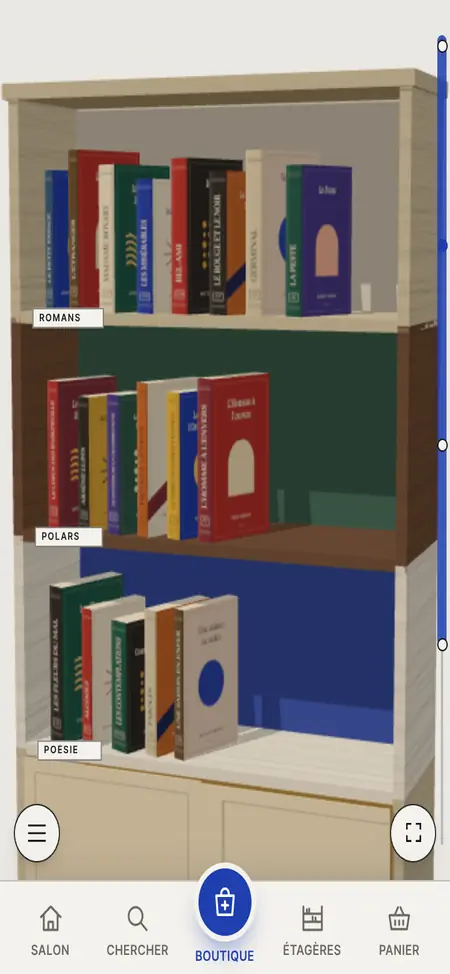
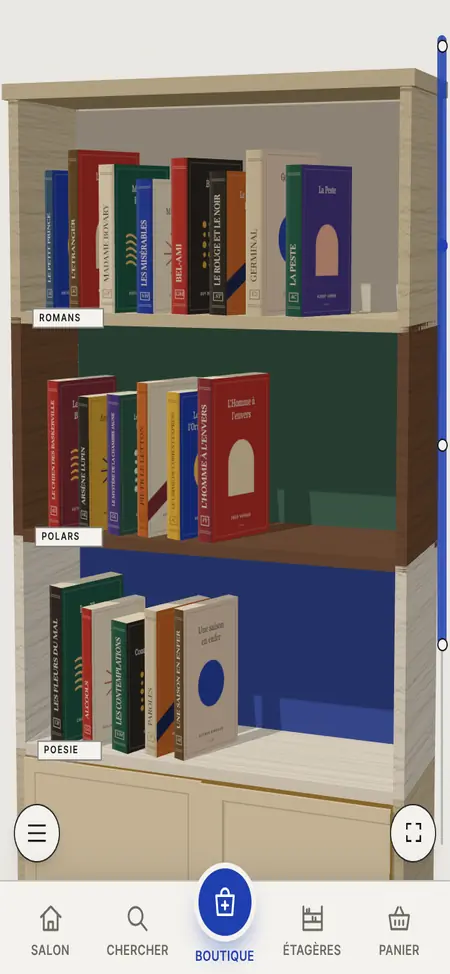
Glisser-déposer précis, livres plus nets, salon immobile pendant la caméra
Claude-Session: https://claude.ai/code/session_01Tg9JuQWn64WBjX1JtYF8aa

diff --git a/src/three/LivingRoomScene.js b/src/three/LivingRoomScene.js
@@ -25,8 +25,8 @@ const EL_MIN = 0.3, EL_MAX = 0.78, EL0 = 0.5
 const TARGET0 = new THREE.Vector3(0, 0.95, 0)
 
 // emplacements (repère de la pièce)
-const BOOKCASE = { x: -R + 0.2, z: -0.55, w: 1.62, h: 2.18, d: 0.38 }
-const FIRE = { x: -0.5, w: 1.3, d: 0.3 }
+const BOOKCASE = { x: -1.05, z: -R + 0.2, w: 1.62, h: 2.18, d: 0.38 }   // mur du fond, à gauche (face à la caméra)
+const FIRE = { z: -0.5, w: 1.3, d: 0.3 }                               // mur de gauche
 const TV = { x: 1.22 }
 const SOFA = { x: 1.34, z: 0.5 }
 const TABLE = { x: -0.02, z: 0.48 }
@@ -449,8 +449,7 @@ export class LivingRoomScene {
   // ---- Bibliothèque ----------------------------------------------------------------------
   _buildBookcase() {
     const grp = new THREE.Group()
-    grp.position.set(BOOKCASE.x, 0, BOOKCASE.z)
-    grp.rotation.y = Math.PI / 2      // face à la pièce (+x)
+    grp.position.set(BOOKCASE.x, 0, BOOKCASE.z)   // face à la pièce (+z)
     this.room.add(grp)
     this.bookcase = grp
     this.bookcaseInner = new THREE.Group()
@@ -593,7 +592,8 @@ export class LivingRoomScene {
   // ---- Cheminée ---------------------------------------------------------------------------
   _buildFireplace() {
     const grp = new THREE.Group()
-    grp.position.set(FIRE.x, 0, -R)
+    grp.position.set(-R, 0, FIRE.z)
+    grp.rotation.y = Math.PI / 2       // contre le mur de gauche, face à la pièce (+x)
     this.room.add(grp)
     const W = FIRE.w, D = FIRE.d
     const aw = 0.74, ah = 0.5, ay = 0.1, ar = aw / 2
@@ -650,7 +650,7 @@ export class LivingRoomScene {
     })
     // lueur du feu
     this.fireLight = new THREE.PointLight(0xff8a3c, 2, 5.5, 1.6)
-    this.fireLight.position.set(FIRE.x, 0.55, -R + D + 0.45)
+    this.fireLight.position.set(-R + D + 0.45, 0.55, FIRE.z)
     this.scene.add(this.fireLight)
     // déco de la tablette : miroir rond, bougies, petit vase
     const mirror = new THREE.Mesh(this._geo(new THREE.CircleGeometry(0.3, 48)), this._mat('#C9D3D8', { roughness: 0.15, metalness: 0.3 }))
@@ -1263,10 +1263,10 @@ export class LivingRoomScene {
     const { CW } = lib.layout
     const totalH = lib.rowCount * (RH + PT) + PT
     const sc = Math.min(2.45 / (totalH + 0.1), 2.1 / (CW + 2 * ST + 0.06))
-    const hw = (CW / 2 + ST + 0.04) * sc
+    const hw = (CW / 2 + ST + 0.04) * sc     // demi-largeur (sur x)
     const g = new THREE.Group()
-    g.position.set(-R + 0.012 + (SD / 2 + 0.02) * sc, 0, clamp(-0.6, -1.92 + hw, 0.32 - hw))
-    g.rotation.y = Math.PI / 2
+    // contre le mur du fond, entre le coin gauche et le meuble télé
+    g.position.set(clamp(-0.8, -1.92 + hw, 0.45 - hw), 0, -R + 0.012 + (SD / 2 + 0.02) * sc)
     g.scale.setScalar(sc)
     g.add(copy)
     this.room.add(g)
@@ -1453,10 +1453,6 @@ export class LivingRoomScene {
     // on part de la vue exacte où l'on était dans la bibliothèque…
     this.fly = { dir: 'out', start: { az: AZ0, el: EL0, dist: this.dist, target: TARGET0.clone() }, t: 0, dur: 1.6, libPose: this._libraryPose() }
     this._stepFly(0)
-    // …puis la bibliothèque remonte en haut : dans le salon, les étagères du haut s'ouvrent,
-    // celles du bas se ferment (c'est par le haut qu'on entrera la prochaine fois)
-    lib.setZoom(true)
-    lib.scrollToTop()
   }
 
   /** La bibliothèque se présente toujours par le haut, vue de près. */
@@ -1487,9 +1483,6 @@ export class LivingRoomScene {
     const a = this._salonPose(f.start.az, f.start.el, f.start.dist, f.start.target)
     const b = f.libPose || this._libraryPose()
     this._applyPose(a, b, ease(p))
-    this._setFade(sstep(0.06, 0.55, p))
-    this.mix = sstep(0.2, 0.8, p)
-    this._setClip(sstep(0.62, 1, p), b.R, b.S)
     this.shadowDirty = Math.max(this.shadowDirty, 1)
     if (k >= 1) {
       if (f.dir === 'in') { if (!f.called) { f.called = true; f.onDone?.() } return }
@@ -1497,15 +1490,18 @@ export class LivingRoomScene {
       this.fly = null
       this.az.snap(AZ0); this.el.snap(EL0); this.target.copy(TARGET0)
       this.camera.updateProjectionMatrix()
-      this._setFade(0); this.mix = 0; this._setClip(0)
       this.idleAt = this.time
+      // la caméra est arrêtée : la bibliothèque remonte en haut (les étagères du haut s'ouvrent,
+      // celles du bas se ferment : c'est par le haut qu'on entrera la prochaine fois)
+      const lib = this.mirror?.lib
+      if (lib && !lib.disposed) { lib.setZoom(true); lib.scrollToTop() }
     }
   }
 
   /** Vue rapprochée (secours, quand la bibliothèque n'est pas encore là). */
   _bookcaseView() {
-    const center = new THREE.Vector3(BOOKCASE.x + BOOKCASE.d / 2, 1.12, BOOKCASE.z)
-    return { target: center, az: Math.PI / 2, el: 0.05, dist: 2.3 }
+    const center = new THREE.Vector3(BOOKCASE.x, 1.12, BOOKCASE.z + BOOKCASE.d / 2)
+    return { target: center, az: 0.2, el: 0.05, dist: 2.3 }
   }
 
   _applyFly(k) {

diff --git a/src/three/BookcaseScene.js b/src/three/BookcaseScene.js
@@ -71,12 +71,14 @@ export class BookcaseScene {
     this.cb = cb
     this.container = container
     this.renderer = new THREE.WebGLRenderer({ antialias: true, alpha: true, powerPreference: 'high-performance' })
-    this.renderer.setPixelRatio(Math.min(window.devicePixelRatio || 1, 2))
+    // écrans 3× (iPhone) : dessin en 3× ; la qualité ne baisse que si le téléphone peine vraiment
+    this.dpr = Math.min(window.devicePixelRatio || 1, 3)
+    this.renderer.setPixelRatio(this.dpr)
     this.renderer.outputColorSpace = THREE.SRGBColorSpace
     this.renderer.shadowMap.enabled = true
     this.renderer.shadowMap.type = THREE.PCFSoftShadowMap
     this.renderer.localClippingEnabled = true
-    setAnisotropy(Math.min(8, this.renderer.capabilities.getMaxAnisotropy()))
+    setAnisotropy(Math.min(16, this.renderer.capabilities.getMaxAnisotropy()))   // livres vus de biais : nets
     container.appendChild(this.renderer.domElement)
     noTouchSelect(this.renderer.domElement)
     this.renderer.domElement.className = 'shelf-canvas'
@@ -1105,26 +1107,31 @@ export class BookcaseScene {
    * on réduit d'abord la résolution, puis on simplifie les ombres.
    */
   _adapt(dt) {
-    if (dt <= 0 || dt > 0.25) return
-    this.perf = this.perf || { sum: 0, n: 0, level: 0 }
+    if (dt <= 0 || dt > 0.25) return false
+    this.perf = this.perf || { sum: 0, n: 0, level: 0, seen: 0 }
     const pf = this.perf
+    // on laisse passer l'arrivée (les livres qui se posent) avant de juger
+    if (++pf.seen < 90) return false
     pf.sum += dt; pf.n++
-    if (pf.n < 24) return
+    if (pf.n < 40) return false
     const avg = pf.sum / pf.n
     pf.sum = 0; pf.n = 0
-    if (avg > 0.034 && pf.level === 0) {
+    if (avg <= 0.045) return false
+    if (pf.level === 0) {
+      // d'abord des ombres plus simples (le flou se voit plus que les ombres)
       pf.level = 1
-      this.renderer.setPixelRatio(1)
-      this.renderer.setSize(this.w, this.h, false)
-      return true      // le canevas vient d'être vidé : il faut le redessiner
-    } else if (avg > 0.034 && pf.level === 1) {
-      pf.level = 2
       this.renderer.shadowMap.type = THREE.PCFShadowMap
       this.key.shadow.mapSize.set(1024, 1024)
       this.key.shadow.map?.dispose(); this.key.shadow.map = null
       return true
     }
-    return false
+    // puis la définition, par paliers, sans descendre sous 1,5×
+    const next = this.dpr > 2 ? 2 : this.dpr > 1.5 ? 1.5 : null
+    if (!next) return false
+    this.dpr = next
+    this.renderer.setPixelRatio(next)
+    this.renderer.setSize(this.w, this.h, false)
+    return true      // le canevas vient d'être vidé : il faut le redessiner
   }
 
   /** Étiquettes des planches : positionnées directement (sans repasser par React). */

diff --git a/src/App.jsx b/src/App.jsx
@@ -192,6 +192,19 @@ function Library({ user, onSignOut }) {
   // panier vidé : on referme la rangée
   useEffect(() => { if (!basket.items.length) setGuide(false) }, [basket.items.length])
 
+  // Retour au salon : la bibliothèque remonte d'abord en haut (dans la bibliothèque), puis la
+  // caméra sort par là — rien ne passe devant pendant le trajet
+  const goSalon = useCallback(() => {
+    const sc = bookcaseApi.current?.scene?.()
+    if (!sc?.scroll) { setSalon('back'); return }
+    const atTop = () => Math.abs(sc.scroll.v - sc._clampScroll(Infinity)) < 0.01 && sc.zoom.v > 0.99 && sc.scroll.done && sc.zoom.done
+    if (atTop()) { setSalon('back'); return }
+    sc.setZoom(true); sc.scrollToTop()
+    const t0 = performance.now()
+    const wait = () => (atTop() || performance.now() - t0 > 1400 ? setTimeout(() => setSalon('back'), 120) : requestAnimationFrame(wait))
+    requestAnimationFrame(wait)
+  }, [])
+
   const openGuide = useCallback(() => {
     if (salon) { markSalonSeen(); setSalon(null) }
     setGuide(true)
@@ -233,7 +246,7 @@ function Library({ user, onSignOut }) {
         <Logo />
         <div className="top-right">
           {HAS_WEBGL && (
-            <button type="button" className="lbl box salon-btn" onClick={e => { e.currentTarget.blur(); setSalon('back') }} aria-label="Retour au salon">
+            <button type="button" className="lbl box salon-btn" onClick={e => { e.currentTarget.blur(); goSalon() }} aria-label="Retour au salon">
               <svg width="13" height="12" viewBox="0 0 13 12" aria-hidden="true"><path d="M1 6L6.5 1.2 12 6M2.6 4.8V11h7.8V4.8" stroke="currentColor" fill="none" strokeWidth="1.1" /></svg>
               <span className="salon-btn-l">Salon</span>
             </button>
@@ -301,7 +314,7 @@ function Library({ user, onSignOut }) {
           {findOpen && <div className="find-backdrop" onPointerDown={() => setFindOpen(false)} />}
           <nav className="tabbar" aria-label="Menu">
             {HAS_WEBGL && (
-              <button type="button" className="tab" onClick={() => { setFindOpen(false); setGuide(false); setSalon('back') }}>
+              <button type="button" className="tab" onClick={() => { setFindOpen(false); setGuide(false); goSalon() }}>
                 <svg viewBox="0 0 24 24" aria-hidden="true"><path d="M3.5 11.2L12 4l8.5 7.2M6 9.8V20h12V9.8M10 20v-5.5h4V20" /></svg>
                 <span>Salon</span>
               </button>

diff --git a/src/three/textures.js b/src/three/textures.js
@@ -11,11 +11,13 @@ const cache = new Map()
 let anisotropy = 4
 export function setAnisotropy(n) { anisotropy = n }
 
-function canvasTexture(key, w, h, draw, { repeat = false } = {}) {
+function canvasTexture(key, w, h, draw, { repeat = false, scale = 1 } = {}) {
   if (cache.has(key)) return cache.get(key)
   const c = document.createElement('canvas')
-  c.width = w; c.height = h
-  draw(c.getContext('2d'), w, h)
+  c.width = Math.round(w * scale); c.height = Math.round(h * scale)
+  const ctx = c.getContext('2d')
+  ctx.scale(scale, scale)     // même dessin, plus de pixels (texte des tranches plus net)
+  draw(ctx, w, h)
   const tex = new THREE.CanvasTexture(c)
   tex.colorSpace = THREE.SRGBColorSpace
   tex.anisotropy = anisotropy
@@ -67,7 +69,7 @@ export function spineTexture(book) {
     ctx.strokeRect(w / 2 - 34, h - 160, 68, 56)
     ctx.fillStyle = ink; ctx.font = `italic 500 36px ${SERIF}`; ctx.textAlign = 'center'; ctx.textBaseline = 'middle'
     ctx.fillText(authorInitials(book), w / 2, h - 131)
-  })
+  }, { scale: 1.5 })   // 1,5 × plus de pixels : titre de la tranche net
 }
 
 /** Couverture générée quand l'image réelle n'est pas disponible. */

diff --git a/src/components/LivingRoom.jsx b/src/components/LivingRoom.jsx
@@ -52,7 +52,7 @@ export default function LivingRoom({ books, shelves, basketItems, from, onEntere
       const done = () => cb.current.onEntered?.(typeof next === 'string' ? next : null)
       if (!el?.animate) { done(); return }
       // les deux vues sont identiques : on retire simplement le salon (les menus apparaissent)
-      el.animate([{ opacity: 1 }, { opacity: 0 }], { duration: 220, easing: 'ease-out', fill: 'forwards' }).finished.then(done, done)
+      el.animate([{ opacity: 1 }, { opacity: 0 }], { duration: 380, easing: 'ease-in-out', fill: 'forwards' }).finished.then(done, done)
     })
   }
   cb.current.go = go
@@ -88,7 +88,7 @@ export default function LivingRoom({ books, shelves, basketItems, from, onEntere
     let t
     if (from === 'back') {
       s.arriveFromLibrary()
-      rootRef.current?.animate?.([{ opacity: 0 }, { opacity: 1 }], { duration: 160, easing: 'ease-out' })
+      rootRef.current?.animate?.([{ opacity: 0 }, { opacity: 1 }], { duration: 300, easing: 'ease-in-out' })
       t = setTimeout(() => setGoing(false), 1100)
     }
     return () => { clearTimeout(t); s.dispose(); sceneRef.current = null }

diff --git a/src/lib/covers.js b/src/lib/covers.js
@@ -8,6 +8,16 @@ const rawCover = b => (b?.cover_url || b?.cover || '').replace('http://', 'https
 
 export const relayUrl = src => `/api/cover?url=${encodeURIComponent(src)}`
 
+/**
+ * Version grand format d'une couverture Google Books (les vignettes « zoom=1 » ne font que
+ * ~128 px de large : floues en 3D). Si Google l'ignore, on retombe sur la vignette.
+ */
+export function hiResCover(src) {
+  if (!src || !/books\.google(usercontent)?\.com/.test(src) || /[?&]fife=/.test(src)) return null
+  if (!/\/books\/content|\/books\/publisher/.test(src)) return null
+  return src + (src.includes('?') ? '&' : '?') + 'fife=w600-h900'
+}
+
 export function coverKey(b) {
   const raw = rawCover(b)
   if (raw) return raw
@@ -17,6 +27,8 @@ export function coverKey(b) {
 export function coverCandidates(b) {
   const raw = rawCover(b)
   const out = []
+  const hi = hiResCover(raw)
+  if (hi) out.push(relayUrl(hi))
   if (raw) out.push(relayUrl(raw), raw)
   if (b?.isbn) out.push(`https://covers.openlibrary.org/b/isbn/${b.isbn}-M.jpg?default=false`)
   return out

diff --git a/src/components/Bookcase3D.jsx b/src/components/Bookcase3D.jsx
@@ -30,7 +30,8 @@ function buildRows({ manual, shelves, autoBooks, byId, visible, canEdit, perRow,
       }
       if (!list.length && !canEdit) continue
       const n = Math.max(1, Math.ceil(list.length / perRow))
-      for (let j = 0; j < n; j++) rows.push({ key: `${s.id}:${j}`, shelf: s, start: j * perRow, books: list.slice(j * perRow, (j + 1) * perRow), cont: j > 0 })
+      // (j * Infinity vaut NaN pour j = 0 : une étagère d'une seule rangée commence à 0)
+      for (let j = 0; j < n; j++) rows.push({ key: `${s.id}:${j}`, shelf: s, start: j ? j * perRow : 0, books: n === 1 ? list : list.slice(j * perRow, (j + 1) * perRow), cont: j > 0 })
     }
   } else {
     const n = Math.ceil(autoBooks.length / perRow)
